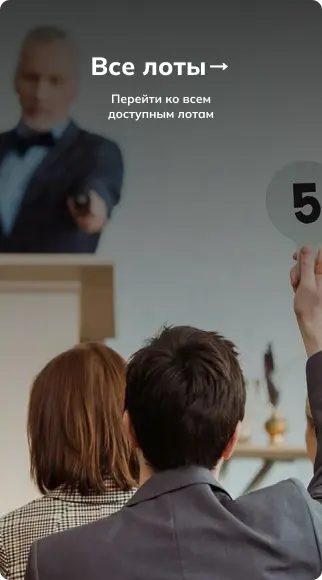
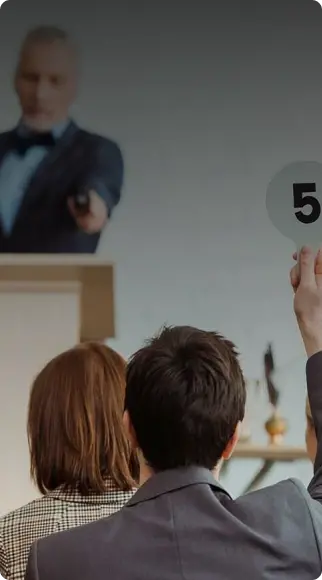
create page

Changed region(s): [[0.2795, 0.0931, 0.7143, 0.2172]]

diff --git a/src/html/template-parts/sections/active-lot/recomend.html b/src/html/template-parts/sections/active-lot/recomend.html
@@ -1,0 +1,51 @@
+<section class="recomend">
+	<div class="container">
+		<h2 class="settings_title">
+			Рекомендации
+		</h2>
+		<div class="recomend__wrapper">
+			@@include( '../../components/card.html',
+			{ 'swiper': 'card-swiper', 'class': 'card-slide', 'src1':
+			'img/information-page/works/note.png',
+			'src2': 'img/information-page/works/note.png', 'src3':
+			'img/information-page/works/note.png',
+			'token-price': '150T', 'info-price': '50 568Р', 'goods': 'MacBook air', 'group': 'Техника',
+			'date': '31.05.2023 21:00', 'num': '4'
+			} )
+			@@include( '../../components/card.html',
+			{ 'swiper': 'card-swiper', 'class': 'card-slide', 'src1':
+			'img/information-page/works/note.png',
+			'src2': 'img/information-page/works/note.png', 'src3':
+			'img/information-page/works/note.png',
+			'token-price': '150T', 'info-price': '50 568Р', 'goods': 'MacBook air', 'group': 'Техника',
+			'date': '31.05.2023 21:00', 'num': '4'
+			} )
+			@@include( '../../components/card.html',
+			{ 'swiper': 'card-swiper', 'class': 'card-slide', 'src1':
+			'img/information-page/works/note.png',
+			'src2': 'img/information-page/works/note.png', 'src3':
+			'img/information-page/works/note.png',
+			'token-price': '150T', 'info-price': '50 568Р', 'goods': 'MacBook air', 'group': 'Техника',
+			'date': '31.05.2023 21:00', 'num': '4'
+			} )
+			@@include( '../../components/card.html',
+			{ 'swiper': 'card-swiper', 'class': 'card-slide', 'src1':
+			'img/information-page/works/note.png',
+			'src2': 'img/information-page/works/note.png', 'src3':
+			'img/information-page/works/note.png',
+			'token-price': '150T', 'info-price': '50 568Р', 'goods': 'MacBook air', 'group': 'Техника',
+			'date': '31.05.2023 21:00', 'num': '4'
+			} )
+			<div class="recomend__item">
+				<div class="recomend__item_inner">
+					<a href="#" class="recomend__link">
+						Все лоты→
+					</a>
+					<a href="#" class="recomend__link_bottom">
+						Перейти ко всем <br> доступным лотам
+					</a>
+				</div>
+			</div>
+		</div>
+	</div>
+</section>

diff --git a/src/scss/sections/active-lot/super.scss b/src/scss/sections/active-lot/super.scss
@@ -1,0 +1,114 @@
+.super {
+	padding: 50px 0 100px;
+
+	h2 {
+		color: #A430FF;
+
+		&::after {
+			background: linear-gradient(90deg, #A430FF 0%, rgba(164, 48, 255, 0.00) 100%);
+		}
+	}
+
+	&__wrapper {
+		display: flex;
+		flex-direction: column;
+		border-radius: 10px;
+		background: linear-gradient(90deg, rgba(164, 48, 255, 0.00) 0%, rgba(164, 48, 255, 0.00) 0.01%, rgba(164, 48, 255, 0.50) 100%);
+		padding: 25px 10px 40px 10px;
+
+		@media all and (min-width: $lg) {
+			flex-direction: row;
+			padding: 64px 170px 73px 0;
+		}
+	}
+
+	&__img {
+		display: flex;
+		justify-content: center;
+		align-items: center;
+		margin-bottom: 30px;
+
+		img {
+			max-width: 110%;
+
+			@media all and (min-width: $lg) {
+				max-width: 100%;
+			}
+		}
+
+		@media all and (min-width: $lg) {
+			margin-right: 50px;
+			margin-bottom: 0;
+		}
+	}
+
+	&__info {
+		width: 100%;
+		max-width: 500px;
+
+		&_title {
+			color: $white;
+			font-family: $ff;
+			font-size: 18px;
+			font-style: normal;
+			font-weight: $fw-black;
+			line-height: normal;
+			letter-spacing: 0.9px;
+			text-transform: uppercase;
+			margin-bottom: 10px; 
+		}
+	
+		&_text {
+			color: #E1E1E1;
+			font-family: $ff;
+			font-size: 12px;
+			font-style: normal;
+			font-weight: $fw-regular;
+			line-height: 25px;
+			display: flex;
+			justify-content: space-between;
+			width: 100%;
+			max-width: 700px;
+			margin-bottom: 10px;
+
+			span {
+				font-family: $ff-add;
+				font-weight: $fw-extra;
+			}
+
+			@media all and (min-width: $lg) {
+				font-size: 15px;
+			}
+
+			&:last-child {
+				margin-bottom: 0;
+			}
+		}
+
+		&_buttons {
+			display: flex;
+			align-items: center;
+			justify-content: center;
+			margin-top: 30px;
+
+			.blue {
+				padding: 7px 0;
+				max-width: 100%;
+
+				@media all and (min-width: $lg) {
+					margin-right: 70px;
+					max-width: 217px;
+					padding: 20px 0;
+				}
+			}
+
+			.transparent {
+				display: none;
+
+				@media all and (min-width: $lg) {
+					display: flex;
+				}
+			}
+		}
+	}
+}

diff --git a/src/html/template-parts/sections/active-lot/super.html b/src/html/template-parts/sections/active-lot/super.html
@@ -1,0 +1,43 @@
+<section class="super">
+	<div class="container">
+		<h2 class="settings_title super_title">
+			Суперлот месяца
+		</h2>
+		<div class="super__wrapper">
+			<div class="super__img">
+				<img src="img/active-lot/car.png" width="593" height="228" loading="lazy" alt="">
+			</div>
+			<div class="super__info">
+				<div class="super__info_texts">
+					<h4 class="super__info_title">
+						Ferrari 488 gtb 2015’
+					</h4>
+					<div class="super__info_text">
+						Депозит <span>1500T</span>
+					</div>
+					<div class="super__info_text">
+						Стоимость клика <span>20T</span>
+					</div>
+					<div class="super__info_text">
+						Количество участников <span>123</span>
+					</div>
+					<div class="super__info_text">
+						Начало <span>31.05.2023 в 12:30</span>
+					</div>
+				</div>
+				<div class="super__info_buttons">
+					<button class="button blue border">
+						Участвовать
+					</button>
+					<button class="button transparent" type="button">
+						<div class="button__heart">
+							<img class="heart" src="img/card/heart.svg" width="35" height="35" alt="">
+							<img class="heart-fill" src="img/card/heart-fill.svg" width="35" height="35" alt="">
+						</div>
+						В избранное
+					</button>
+				</div>
+			</div>
+		</div>
+	</div>
+</section>

diff --git a/src/scss/sections/active-lot/recomend.scss b/src/scss/sections/active-lot/recomend.scss
@@ -1,0 +1,62 @@
+.recomend {
+	padding: 32px 0 25px;
+
+	.container {
+		max-width: 1790px;
+	}
+
+	&__wrapper {
+		display: flex;
+		overflow-x: auto;
+		padding-bottom: 15px;
+	}
+
+	.card {
+		margin-right: 30px;
+	}
+
+	&__item {
+		min-width: 202px;
+		height: 363px;
+		padding: 12px 15px 12px 15px;
+		border-radius: $bord-20;
+		background-image: url('../img/active-lot/back.png');
+		background-repeat: no-repeat;
+		background-size: cover;
+
+		@media all and (min-width: $lg) {
+			min-width: 322px;
+			height: 580px;
+		}
+
+		@media all and (min-width: $lg) {
+			padding: 50px 25px 25px 25px;
+		}
+
+		&_inner {
+			display: flex;
+			flex-direction: column;
+			justify-content: flex-start;
+			align-items: center;
+			width: 100%;
+			height: 100%;
+		}
+	}
+
+	&__link {
+		color: $white;
+		text-align: center;
+		font-family: $ff;
+		font-size: 25px;
+		font-style: normal;
+		font-weight: $fw-black;
+		line-height: normal;
+		text-align: center;
+		margin-bottom: 10px;
+
+		&_bottom {
+			font-size: 12px;
+			font-weight: $fw-bold;
+		}
+	}
+}

diff --git a/src/html/active-lot.html b/src/html/active-lot.html
@@ -3,5 +3,7 @@
 <main>
 	@@include( 'template-parts/sections/active-lot/hero.html' )
 	@@include( 'template-parts/sections/active-lot/active-lot.html' )
+	@@include( 'template-parts/sections/active-lot/recomend.html' )
+	@@include( 'template-parts/sections/active-lot/super.html' )
 </main>
 @@include( 'template-parts/footer/footer.html' )

diff --git a/src/scss/sections/active-lot/active-lot.scss b/src/scss/sections/active-lot/active-lot.scss
@@ -17,7 +17,6 @@
 	&__wrapper {
 		border-radius: 10px;
 		background: linear-gradient(90deg, rgba(48, 82, 255, 0.00) 0%, rgba(48, 82, 255, 0.20) 100%);
-		border: 1px solid $accent;
 		padding: 20px;
 		position: relative;
 

diff --git a/src/scss/common/components.scss b/src/scss/common/components.scss
@@ -241,6 +241,7 @@
 		position: relative;
 
 		.point {
+			display: block;
 			position: absolute;
 			right: -113px;
 			top: 50%;
@@ -310,6 +311,10 @@
 		}
 
 	}
+}
+
+.point {
+	display: none;
 }
 
 .btn-reverse {

diff --git a/src/scss/common/buttons.scss b/src/scss/common/buttons.scss
@@ -96,6 +96,16 @@
 			background-color: transparent;
 		}
 	}
+
+	& .selected {
+		.heart {
+			display: none;
+		}
+
+		.heart-fill {
+			display: block;
+		}
+	}
 }
 
 .card__button {
